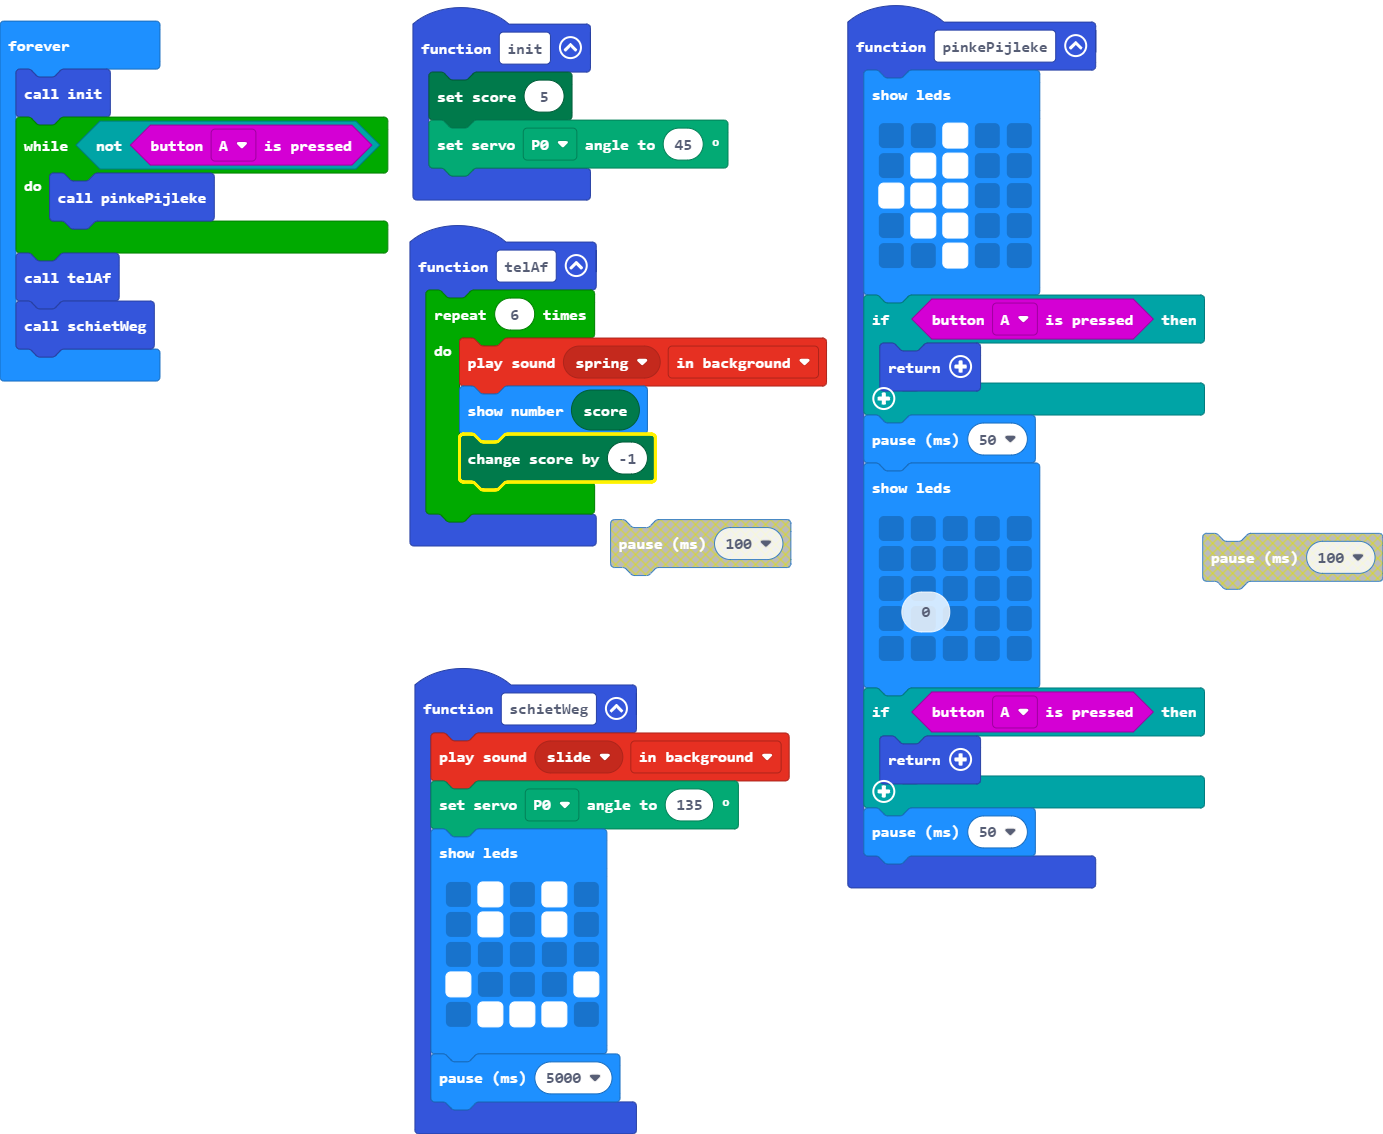
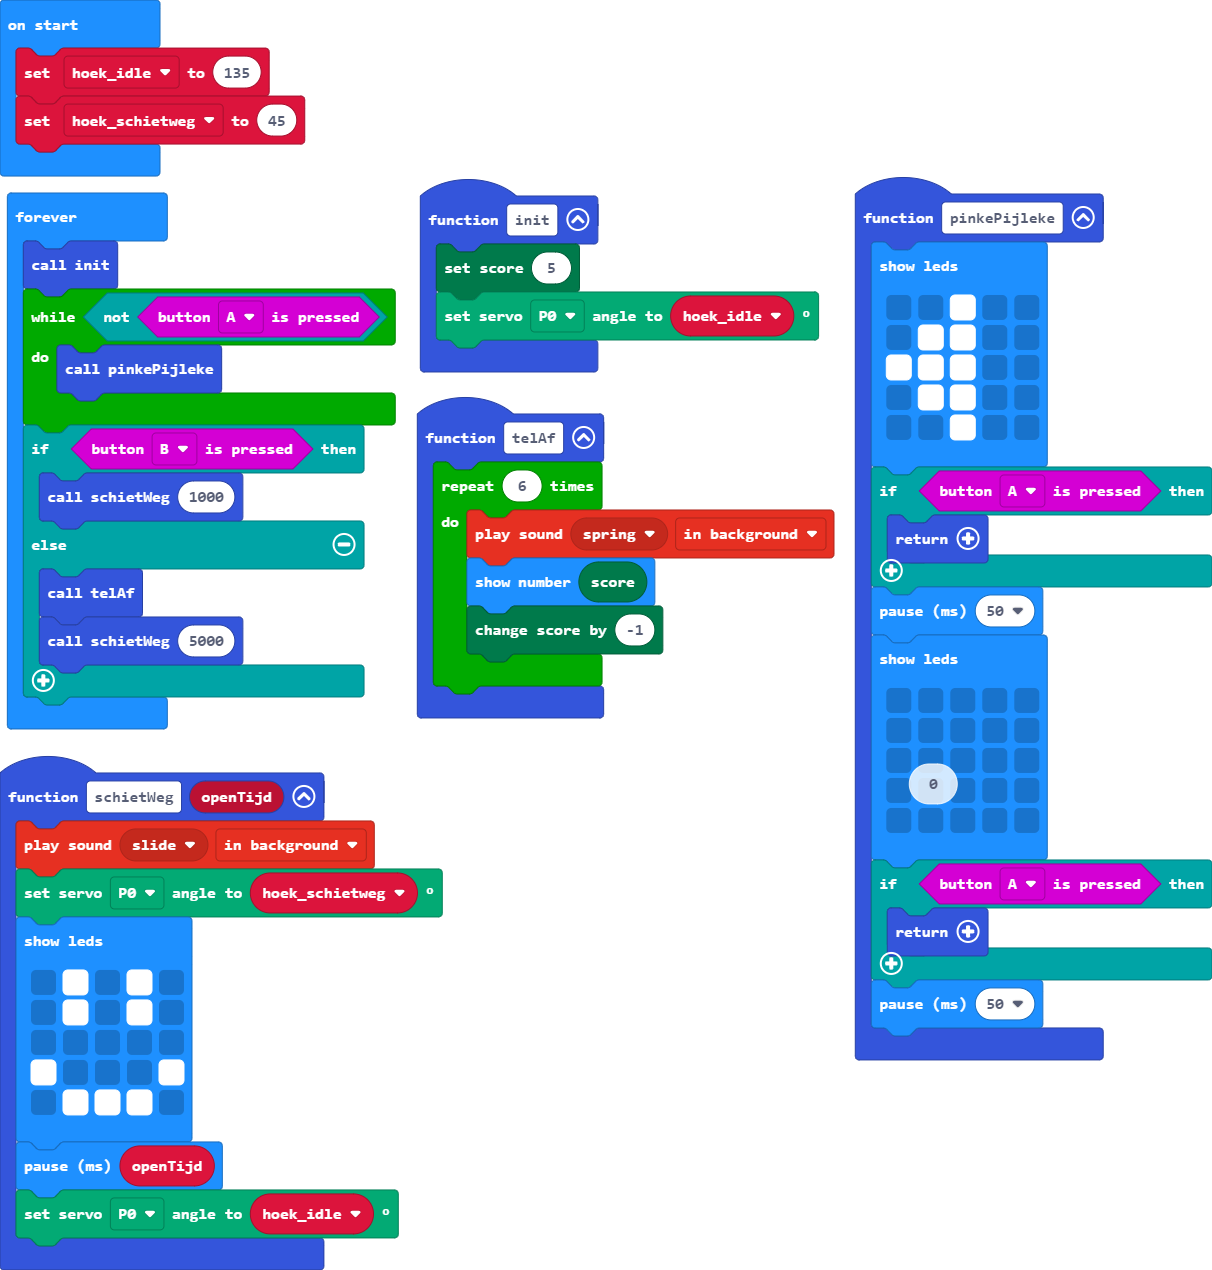
Update main.blocks, main.ts

diff --git a/main.ts b/main.ts
@@ -1,6 +1,6 @@
-function schietWeg () {
+function schietWeg (openTijd: number) {
     music.playSoundEffect(music.builtinSoundEffect(soundExpression.slide), SoundExpressionPlayMode.InBackground)
-    servos.P0.setAngle(135)
+    servos.P0.setAngle(hoek_schietweg)
     basic.showLeds(`
         . # . # .
         . # . # .
@@ -8,7 +8,8 @@ function schietWeg () {
         # . . . #
         . # # # .
         `)
-    basic.pause(5000)
+    basic.pause(openTijd)
+    servos.P0.setAngle(hoek_idle)
 }
 function telAf () {
     for (let index = 0; index < 6; index++) {
@@ -19,7 +20,7 @@ function telAf () {
 }
 function init () {
     game.setScore(5)
-    servos.P0.setAngle(45)
+    servos.P0.setAngle(hoek_idle)
 }
 function pinkePijleke () {
     basic.showLeds(`
@@ -45,11 +46,19 @@ function pinkePijleke () {
     }
     basic.pause(50)
 }
+let hoek_schietweg = 0
+let hoek_idle = 0
+hoek_idle = 135
+hoek_schietweg = 45
 basic.forever(function () {
     init()
     while (!(input.buttonIsPressed(Button.A))) {
         pinkePijleke()
     }
-    telAf()
-    schietWeg()
+    if (input.buttonIsPressed(Button.B)) {
+        schietWeg(1000)
+    } else {
+        telAf()
+        schietWeg(5000)
+    }
 })
